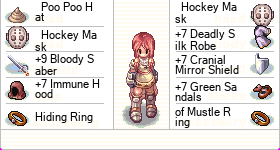
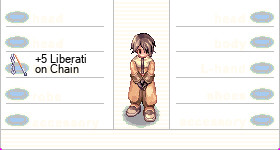
Fixed a bug with weapon cards

diff --git a/pyflask/app/templates/calculator_frame.html b/pyflask/app/templates/calculator_frame.html
@@ -451,6 +451,7 @@
 </form>
 
 <br><br>
+<h3>ola</h3>
 <h3>{{player_info}}</h3>
 
 {% endblock %}

diff --git a/ragnarok/model/equip_model.py b/ragnarok/model/equip_model.py
@@ -2,7 +2,7 @@ from typing import List
 
 from ragnarok.main.gear_query import dict_name_to_dict_id
 from ragnarok.main.exporter import equip_db, job70, shield_db, shoes_db, armor_db, robe_db, accessory_db, \
-    hat_db, weapon_db, adjective_list
+    hat_db, weapon_db, adjective_list, job_adapt
 
 from ragnarok.model.dead_gear import dead_gear_list as nullgear
 from ragnarok.model.dead_gear import dead_card as nullcard
@@ -218,36 +218,41 @@ class Weapon(BaseGear):
         if card_id == 0:
             return False
         card = card_db[card_id]
-        if self.slots == 0 and self.id != 1599 and card['Id'] != 4700:
+        if (self.slots == 0) and (self.id != 1599) and (card_id != 4700):
             raise Exception('Impossible to insert the card {}. '
                             'The weapon [{}] {} has zero slots'.format(card['Name'], self.id, self.name))
         else:
-            if self.card:
-                if self.card2:
-                    if self.card3:
-                        if self.card4:
-                            raise Exception("Impossible to insert [{}]. The weapon [{}] has already {}/{} cards"
-                                            .format(card['Name'], self.name, self.slots, self.slots))
+            if card_id != 4700:
+                if self.card:
+                    if self.card2:
+                        if self.card3:
+                            if self.card4:
+                                raise Exception("Impossible to insert [{}] ({})."
+                                                " The weapon [{}] has already {}/{} cards"
+                                                .format(card['Name'], card['Id'], self.name, self.slots, self.slots))
+                            else:
+                                if self.remaining_slots() > 0:
+                                    self.card4 = card
+                                else:
+                                    raise Exception("Impossible to insert [{}] ({})."
+                                                    " The weapon [{}] has already {}/{} cards"
+                                                    .format(card['Name'], card['Id'], self.name, self.slots, self.slots))
                         else:
                             if self.remaining_slots() > 0:
-                                self.card4 = card
+                                self.card3 = card
                             else:
-                                raise Exception("Impossible to insert [{}]. The weapon [{}] has already {}/{} cards"
-                                                .format(card['Name'], self.name, self.slots, self.slots))
+                                raise Exception("Impossible to insert [{}] ({})."
+                                                " The weapon [{}] has already {}/{} cards"
+                                                .format(card['Name'], card['Id'], self.name, self.slots, self.slots))
                     else:
                         if self.remaining_slots() > 0:
-                            self.card3 = card
+                            self.card2 = card
                         else:
-                            raise Exception("Impossible to insert [{}]. The weapon [{}] has already {}/{} cards"
-                                            .format(card['Name'], self.name, self.slots, self.slots))
+                            raise Exception("Impossible to insert [{}] ({})."
+                                            " The weapon [{}] has already {}/{} cards"
+                                            .format(card['Name'], card['Id'], self.name, self.slots, self.slots))
                 else:
-                    if self.remaining_slots() > 0:
-                        self.card2 = card
-                    else:
-                        raise Exception("Impossible to insert [{}]. The weapon [{}] has already {}/{} cards"
-                                        .format(card['Name'], self.name, self.slots, self.slots))
-            else:
-                self.card = card
+                    self.card = card
 
 
 class PlayerGear:
@@ -342,12 +347,15 @@ class PlayerGear:
                 if self.job.lower() not in job70:
                     return False, 'Cannot equip the transclass-only item [{}] ({}) in a {}' \
                         .format(item.name, item.id, self.job)
+            current_job = self.job.lower()
+            if current_job in job70:
+                current_job = job_adapt['Body'][current_job.lower()]
             if 'All' in item.jobs.keys():
-                if self.job.lower() in map(lambda x: x.lower(), item.jobs.keys()):
+                if current_job in map(lambda x: x.lower(), item.jobs.keys()):
                     return False, 'Cannot equip the item [{}] ({}) in a {}' \
                         .format(item.name, item.id, self.job)
             else:
-                if self.job.lower() not in map(lambda x: x.lower(), item.jobs.keys()):
+                if current_job not in map(lambda x: x.lower(), item.jobs.keys()):
                     return False, 'Cannot equip the item [{}] ({}) in a {}' \
                         .format(item.name, item.id, self.job.capitalize())
         return True, 'equipable'
@@ -433,8 +441,14 @@ class PlayerGear:
                     aux = Shield(equip_db[v[0]])
                 if k == "weapon" and v is not None:
                     aux = Weapon(equip_db[v[0]])
-                    if v[2]:
+                    if len(v) > 2:
                         aux.insert_card(v[2])
+                    if len(v) > 3:
+                        aux.insert_card(v[3])
+                    if len(v) > 4:
+                        aux.insert_card(v[4])
+                    if len(v) > 5:
+                        aux.insert_card(v[5])
                 if k == "shoes" and v is not None:
                     aux = Shoes(equip_db[v[0]])
                 if k == "armor" and v is not None:
@@ -506,34 +520,30 @@ class PlayerGear:
 #              "robe": (2502, 7, 4133),
 #              "accessory1": (2626, 0, 4044),
 #              "accessory2": (2608, 0, 0)}
-
-text_dict = {"headgear1": ('Poo Poo Hat', 0, 0),
-             "headgear2": ('Sunglasses [1]', 0, 'Willow Card'),
-             "headgear3": ('Cigarette', 0, 0),
-             "weapon": None,
-             "shield": ('Buckler [1]', 0, 'Thief Bug Egg Card'),
-             "shoes": ('Boots', 0, 0),
-             "armor": ('Formal Suit [1]', 0, 'Dokebi Card'),
-             "robe": ('Hood [1]', 0, 'Condor Card'),
-             "accessory1": ('Clip [1]', 0, 'Sage Worm Card'),
-             "accessory2": ('Silver Ring', 0, 0)}
-
-gear_dict = dict_name_to_dict_id(text_dict)
+#
+# text_dict = {"headgear1": ('Poo Poo Hat', 0, 0),
+#              "headgear2": ('Sunglasses [1]', 0, 'Willow Card'),
+#              "headgear3": ('Cigarette', 0, 0),
+#              "weapon": ('Gladius [3]', 0, 0, 'Hydra Card', 'Hydra Card', 'Skeleton Worker Card'),
+#              "shield": ('Buckler [1]', 0, 'Thief Bug Egg Card'),
+#              "shoes": ('Boots', 0, 0),
+#              "armor": ('Formal Suit [1]', 0, 'Dokebi Card'),
+#              "robe": ('Hood [1]', 0, 'Condor Card'),
+#              "accessory1": ('Clip [1]', 0, 'Sage Worm Card'),
+#              "accessory2": ('Silver Ring', 0, 0)}
+#
+# gear_dict = dict_name_to_dict_id(text_dict)
 # gear_dict = {'headgear1': [2289, 0, 0],
 #              'headgear2': [2202, 0, 4010],
 #              'headgear3': [2267, 0, 0],
-#              'weapon': None,
+#              'weapon': [1220, 0, 4092, 4092, 4092],
 #              'shield': [2104, 0, 4012],
 #              'shoes': [2405, 0, 0],
 #              'armor': [2320, 0, 4098],
 #              'robe': [2502, 0, 4015],
 #              'accessory1': [2607, 0, 4219],
 #              'accessory2': [2611, 0, 0]}
-#
-pe = PlayerGear(gear_dict, 'knight', 99)
-#
-# # pe.headmid.insert_card(4010)
-#
+# pe = PlayerGear(gear_dict, 'knight', 99)
 # pe.print_gear()
 
 # # pe.equip_item(pe.create_item_with_id(2104))

diff --git a/ragnarok/main/gear_query.py b/ragnarok/main/gear_query.py
@@ -262,7 +262,12 @@ def dict_name_to_dict_id(dict_name: dict):
     for k, v in dict_name.items():
         if v is not None:
             if v[2] != 0:
-                adapt_void = [retrieve_id_by_name(v[0]), v[1], retrieve_card_id_by_name(v[2])]
+                if k == 'weapon':
+                    adapt_void = [retrieve_id_by_name(v[0]), v[1],
+                                  retrieve_card_id_by_name(v[2]), retrieve_card_id_by_name(v[3]),
+                                  retrieve_card_id_by_name(v[4]), retrieve_card_id_by_name(v[5])]
+                else:
+                    adapt_void = [retrieve_id_by_name(v[0]), v[1], retrieve_card_id_by_name(v[2])]
             else:
                 adapt_void = [retrieve_id_by_name(v[0]), v[1], v[2]]
             output_dict[k] = adapt_void

diff --git a/ragnarok/model/build_model.py b/ragnarok/model/build_model.py
@@ -4,6 +4,8 @@ import pandas as pd
 from typing import List
 import os
 
+from ragnarok.main.exporter import job70
+
 
 class PlayerBuild:
     def __init__(self, job_bonuses_list: pd.DataFrame, base_level: int, job_level: int,
@@ -142,6 +144,8 @@ class PlayerBuild:
         max_hp = math.floor(self.base_hp * (1 + (0.01 * self.vit)) * self.trans_mod)
         max_hp += self.additive_modifiers
         max_hp = math.floor(max_hp * (1 + (self.multiplicative_modifiers * 0.01)))
+        if self.current_job in job70:
+            max_hp -= 1
         return max_hp
 
     def calculate_max_sp(self) -> int:

diff --git a/ragnarok/resources/interface/interface_generator.py b/ragnarok/resources/interface/interface_generator.py
@@ -119,6 +119,8 @@ class InterfaceGenerator:
     def generate_equip_details(self, text_dict: dict, sex: str):
         gear_dict = dict_name_to_dict_id(text_dict)
 
+        print('meu deus {}'.format(gear_dict))
+
         pe = PlayerGear(gear_dict, self.input_player.current_job, self.input_player.base_level)
 
         in_file = (os.path.abspath(os.path.join(os.path.dirname(__file__), 'equip_window.png')))
